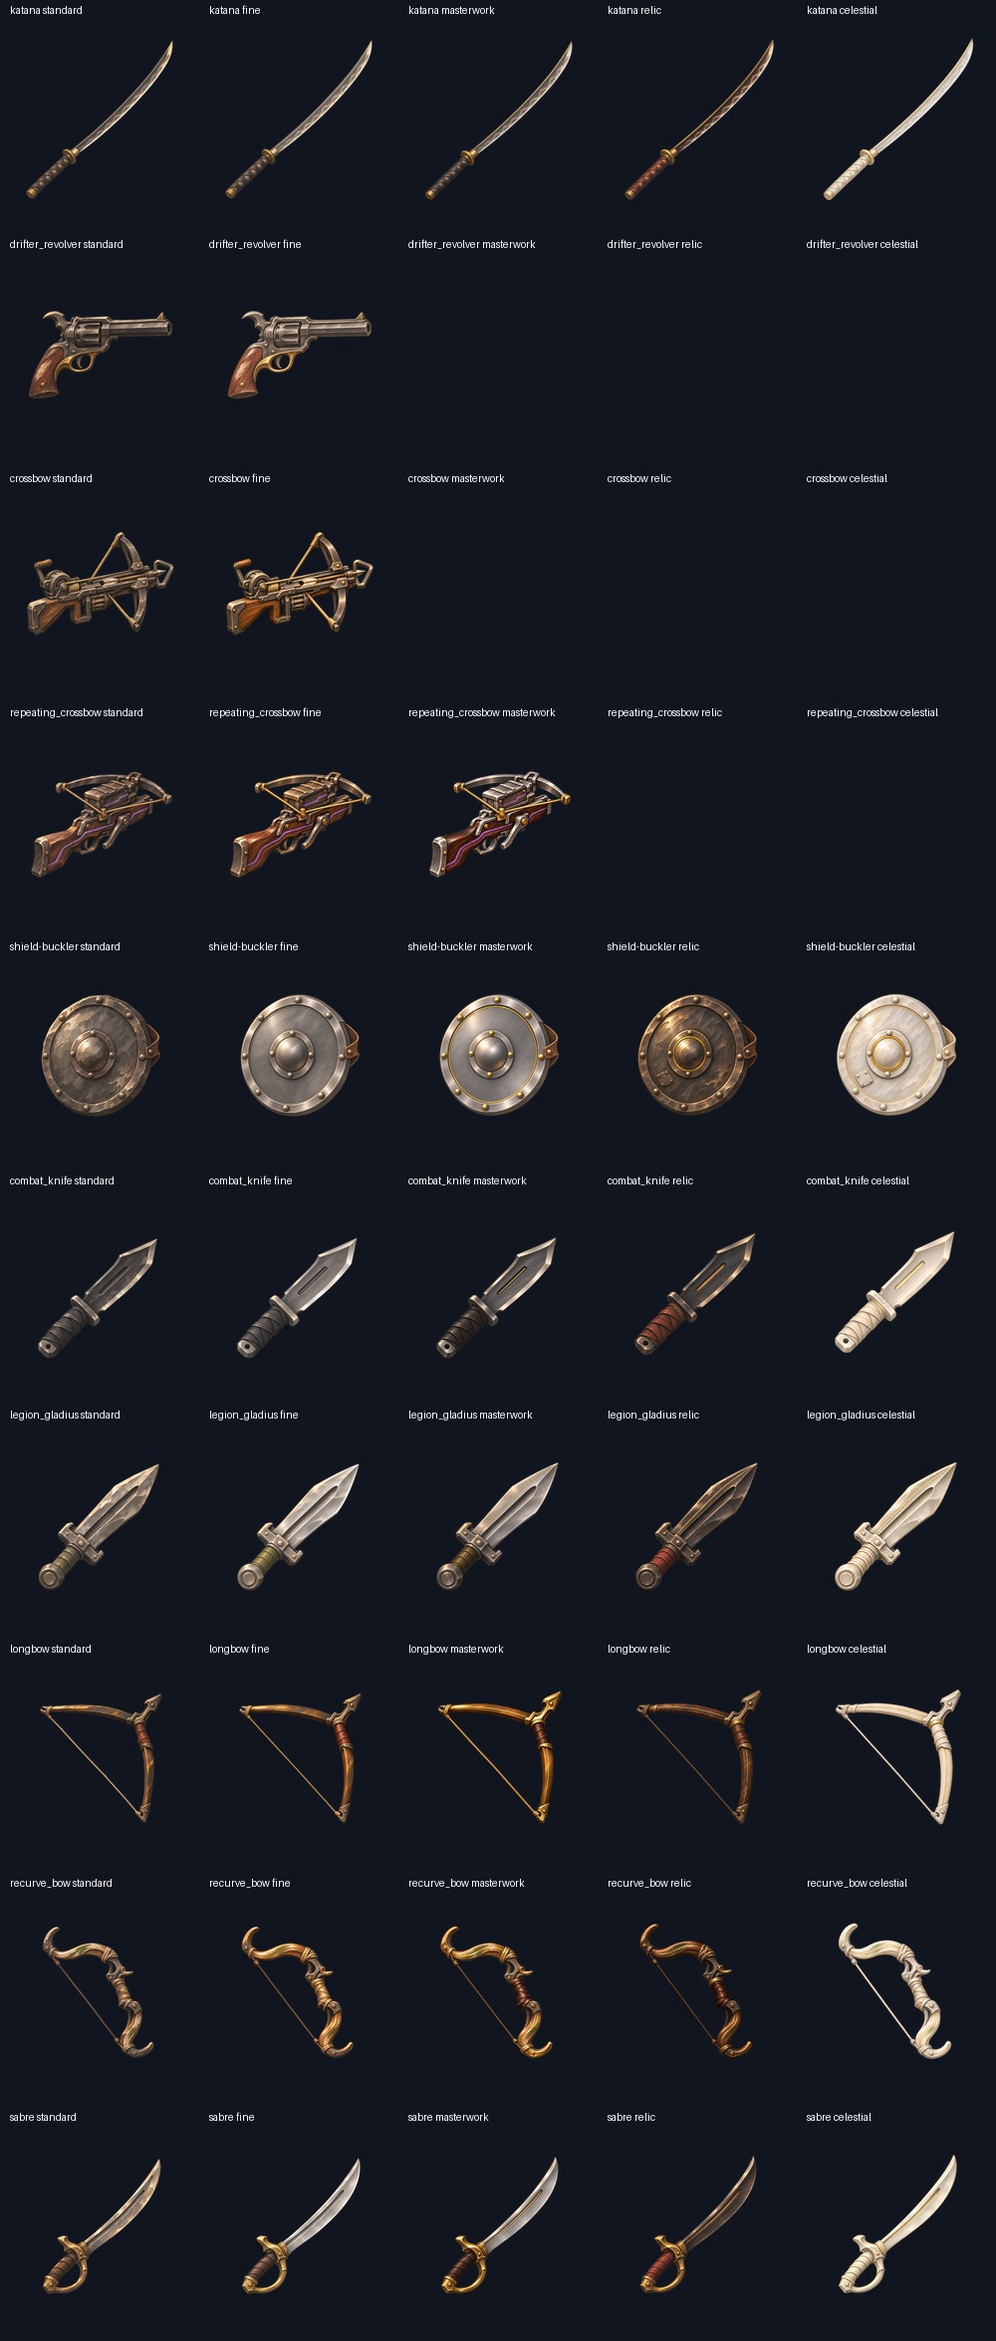
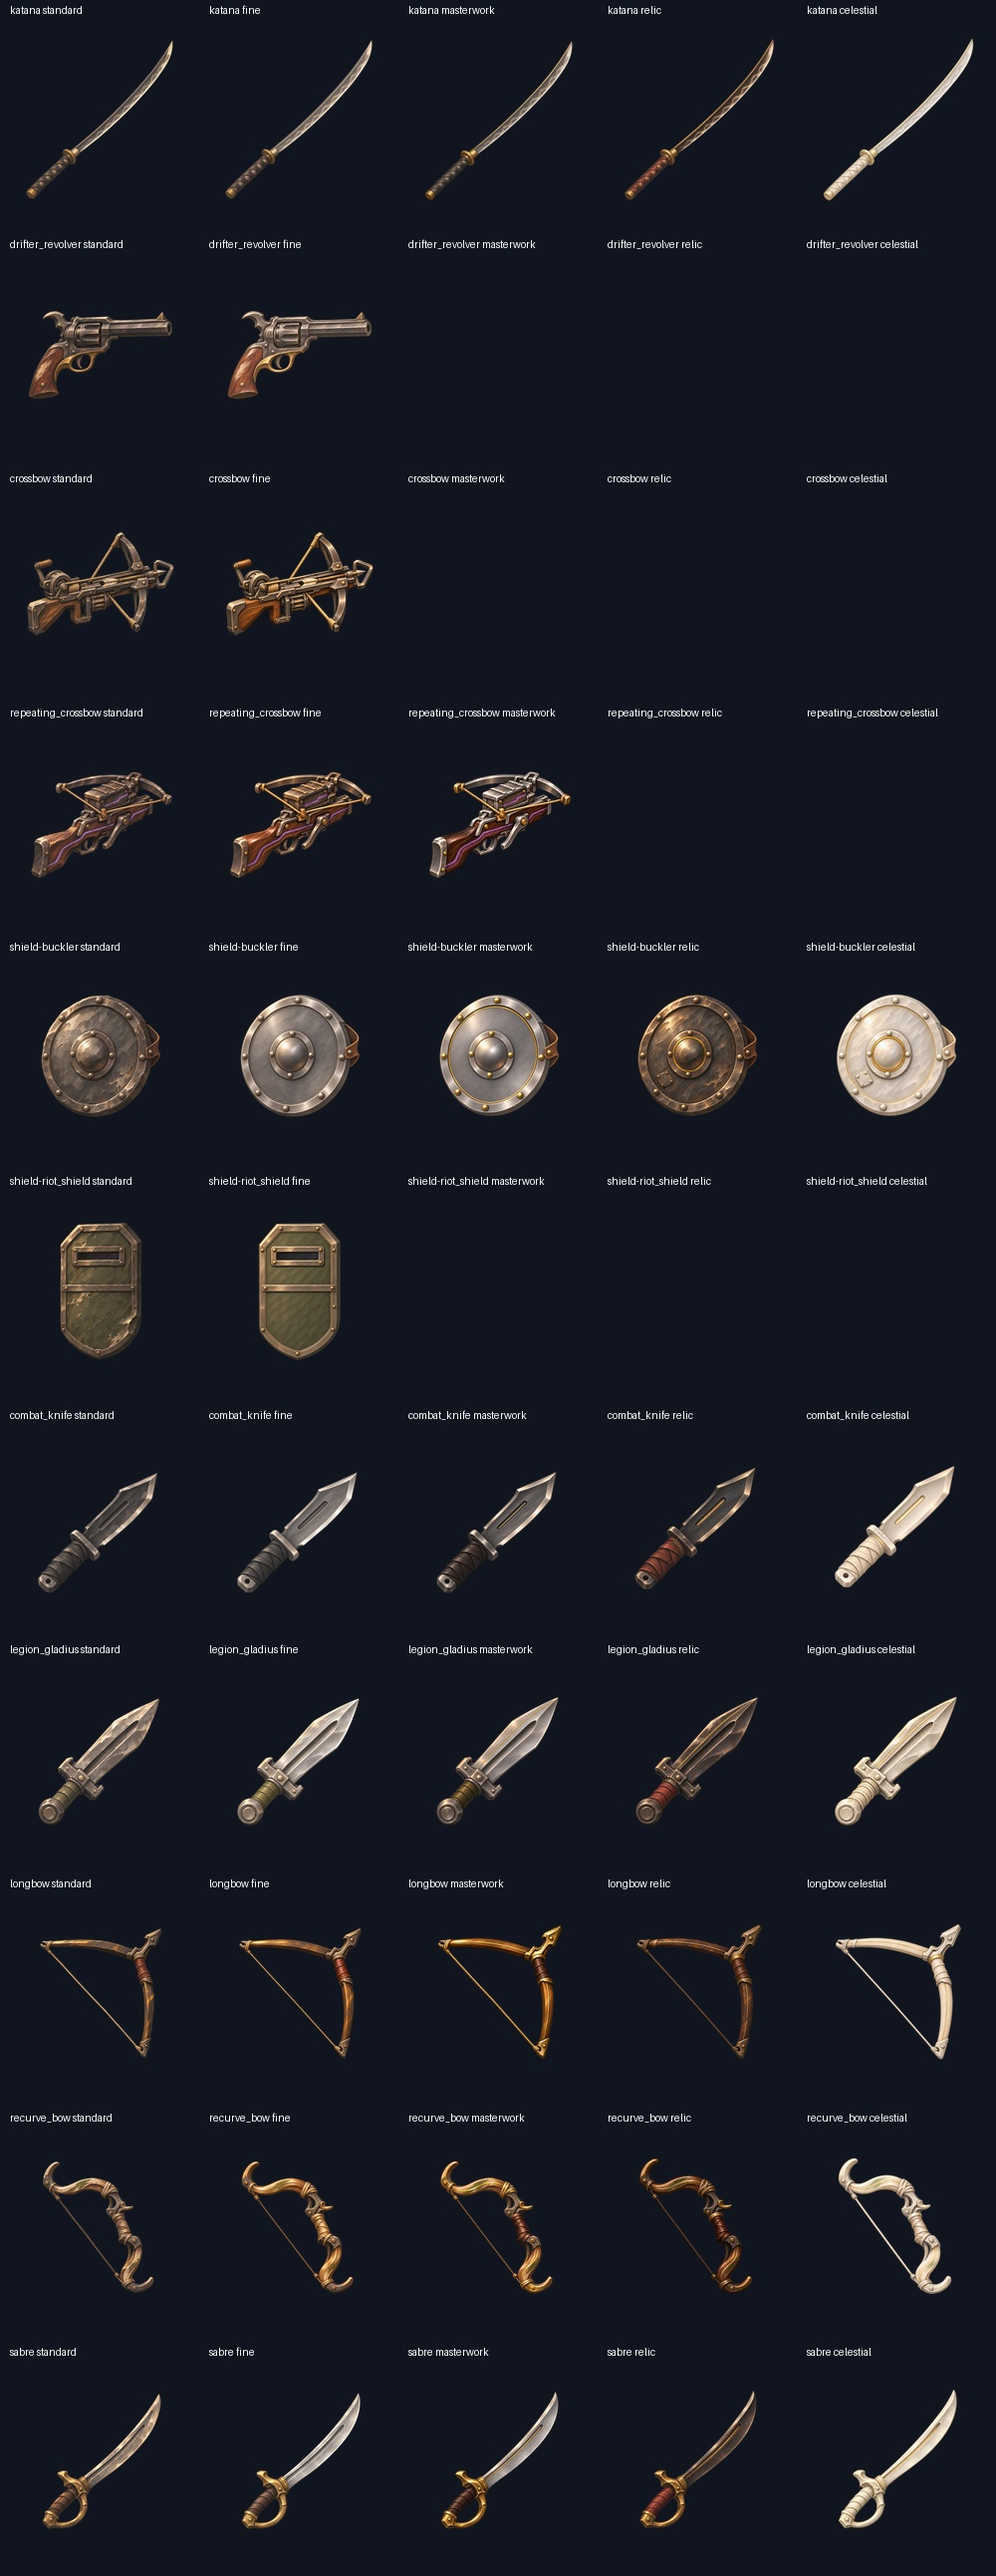
Archive shield-riot_shield fine grade proof

diff --git a/art/_archive/prompt-pack/2026-11-19-file-08/PROGRESS.md b/art/_archive/prompt-pack/2026-11-19-file-08/PROGRESS.md
@@ -1,5 +1,5 @@
 # Grade proof progress
 
-28 registered review-candidate masters. 34 archived PNG attempts, including earlier Fine trials. The composite shows the current candidate for each finish.
+32 registered review-candidate masters. 35 archived PNG attempts, including earlier Fine trials. The composite shows the current candidate for each finish.
 
 [Proof progress](review/complete-proof-progress.jpg) · [Inventory sizes](review/finish-candidates-small.jpg) · [Claims](WORK-CLAIMS.md) · [Handoff](HANDOFF.md)
